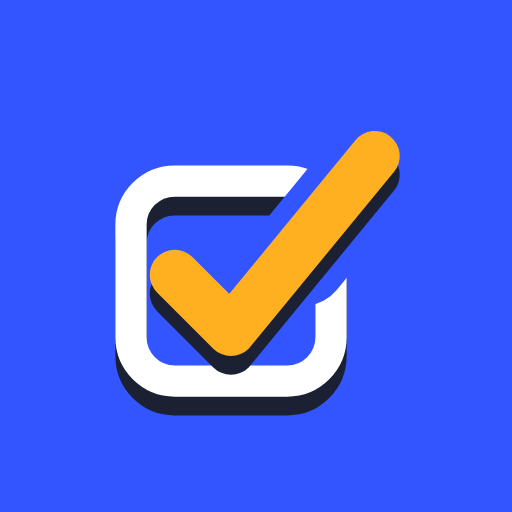
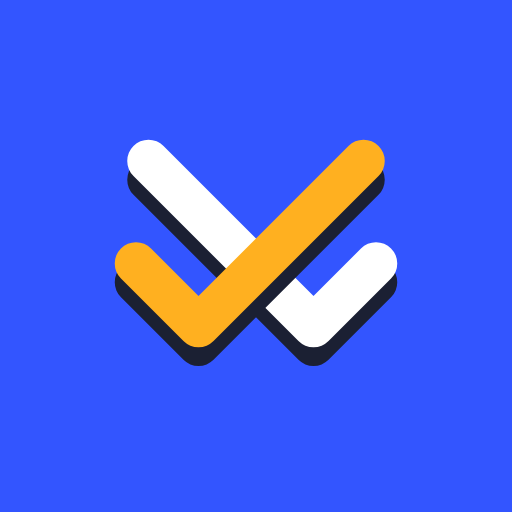
feat: 앱 마크를 교차한 체크 두 개로 — 투두와 대결을 한 그림에
전 마크는 체크 칸 하나와 체크 하나였다. 투두는 읽혔지만 대결이 어디에도 없었다.
앰버 체크와 흰 체크가 서로를 향해 그어져 한가운데에서 X로 만난다 — 칼 두 자루를 교차시킨
대결 기호를 체크로 바꾼 것이고, 두 색이 곧 두 사람이다(2026-11-12 오너).

- 기하는 완전 대칭이다. 흰 체크는 앰버 체크를 세로축(x = 12)으로 뒤집은 모양이고, 두 긴
  획이 직각이라 교차점이 정확히 하나(12, 13)다.
- **색 마크는 끊지 않는다.** 처음에는 앞 체크 둘레를 배경색으로 끊었는데 뒤 체크가 두 동강
  난 조각처럼 보이고 앰버만 온전한 체크로 읽혔다. 앞 획의 ink 두께가 뒤 획 위로 지나가며
  경계를 만들어 주므로(그림자가 드리운 모양) 그걸로 충분하다.
- **단색(테마 아이콘·알림)에서만 간격을 낸다.** 색이 하나라 그 경계가 없어, 간격이 없으면
  교차가 사라지고 그냥 X 한 덩어리가 된다. 지우는 띠는 끝이 둥글면 교차점 밖까지 번져
  뒤 체크의 짧은 획(앞 긴 획과 나란하다)을 갉으므로 자른 끝(butt)으로 짧게 낸다.
- 런처(5밀도 × 3종)·알림·스토어 512px를 다시 생성했다. 로그인 화면 마크도 같은
  `AppMark.paint`를 쓰므로 함께 바뀐다.

테스트: 안전 원(반지름 33dp) 안에 드는 것, 두 체크의 끝·꺾임 여섯 점이 모두 남는 것,
간격이 단색에만 있는 것을 단정한다. `flutter analyze` 깨끗, 758개 통과.

Changed region(s): [[0.2188, 0.25, 0.7812, 0.8125], [0.6562, 0.2812, 0.6875, 0.3125], [0.625, 0.3125, 0.6562, 0.3438]]

diff --git a/lib/core/theme/app_mark.dart b/lib/core/theme/app_mark.dart
@@ -4,92 +4,119 @@ import 'app_palette.dart';
 
 /// 앱 마크 — 런처·스토어·알림·테마 아이콘과 로그인 화면이 같은 그림을 쓴다(redesign design 7.1).
 ///
-/// 둥근 체크 칸(할 일)을 굵은 앰버 체크가 오른쪽 위로 뚫고 나가고("먼저 해치운다"), 아래로 ink 두께가
-/// 붙는다(버튼 두께와 같은 언어). 캐릭터·얼굴·원형 볼 같은 특정 게임 도형은 없다.
-/// 적응형 아이콘(108dp)에서 가운데 44dp 상자에 그리면 모든 픽셀이 안전 원(반지름 33dp) 안에 든다 — 테스트로 고정.
+/// **체크 두 개가 맞붙는다**(2026-11-12 오너 — "체크 표시 두 개가 배틀하고 있는 느낌"). 앰버 체크와
+/// 흰 체크가 서로를 향해 그어져 한가운데에서 X로 교차한다 — 칼 두 자루를 교차시킨 대결 기호를
+/// 체크로 바꾼 것이고, 두 색이 곧 두 사람이다. 앞(앰버)이 지나는 자리에서 뒤(흰)를 끊어 두 획이
+/// 한 덩어리로 뭉치지 않고 **겹쳐 지나가는** 것으로 읽힌다.
+///
+/// 전에는 체크 칸 하나와 체크 하나였다. 투두는 읽혔지만 대결이 어디에도 없었다 — 두 번째 체크가
+/// 그 자리를 메운다.
+///
+/// 캐릭터·얼굴·원형 볼 같은 특정 게임 도형은 없다(IP 가드, design 4.3). 적응형 아이콘(108dp)에서
+/// 가운데 44dp 상자에 그리면 모든 픽셀이 안전 원(반지름 33dp) 안에 든다 — 테스트로 고정.
 class AppMark {
   AppMark._();
 
   // ── 벡터 마크(redesign design 7.1) ──────────────────────────────────────────────────────────
   //
   // 24×24 단위(u) 격자 위의 그림. 로그인·런처·스토어·알림·테마 아이콘이 [paint] 하나를 함께 쓴다.
-  // - 칸: 둥근 사각 [boxRect], 모서리 [boxRadius], 선 굵기 [boxStroke] — surface(흰색).
-  // - 체크: 꺾은선 [checkPoints], 굵기 [checkStroke], 둥근 끝·꺾임 — amber.
-  // - 뚫린 자리: 체크가 칸 선을 지나는 곳(오른쪽 위)에서 칸 선을 체크 둘레 [cutGap]만큼 지운다 — 체크가
-  //   칸을 "뚫고" 오른쪽 위로 나간다.
-  // - 두께: 칸·체크를 아래로 [shadowOffset] 옮긴 같은 모양을 ink로 먼저 깐다(버튼 두께와 같은 언어).
-  //   뚫린 자리는 체크 몸통(체크 + 그 두께) 둘레로 내서 체크 두께가 간격을 메우지 않게 한다.
-  // - 단색(테마 아이콘·알림): 두께 없이 칸 + 체크만, 뚫린 간격은 남긴다(한 덩어리로 뭉개지지 않게).
-  // 얼굴·캐릭터·특정 게임 도형 없음(체크와 네모뿐).
+  // - 두 체크: 꺾은선 [frontPoints](앰버)와 그것을 세로축으로 뒤집은 [backPoints](흰색),
+  //   굵기 [checkStroke], 둥근 끝·꺾임. 두 긴 획이 [crossPoint]에서 직각으로 만난다.
+  // - 끊긴 자리: 앞 체크 몸통 둘레 [cutGap]만큼을 뒤 체크 층에서 지운다 — 앞이 위로 지나간다.
+  // - 두께: 두 체크를 아래로 [shadowOffset] 옮긴 같은 모양을 ink로 먼저 깐다(버튼 두께와 같은 언어).
+  //   끊긴 자리는 앞 체크 몸통(체크 + 그 두께) 둘레로 내서 두께가 간격을 메우지 않게 한다.
+  // - 단색(테마 아이콘·알림): 두께 없이 두 체크만, 끊긴 간격은 남긴다 — 한 색이라 간격이 없으면
+  //   교차가 사라지고 그냥 X 한 덩어리가 된다.
 
   /// 격자 한 변(u).
   static const grid = 24.0;
 
-  static const boxRect = Rect.fromLTRB(2, 6, 18, 22);
-  static const boxRadius = 3.5;
-  static const boxStroke = 2.5;
+  /// 앞 체크(앰버). 왼쪽 아래에서 오른쪽 위로 긋는다.
+  static const frontPoints = [Offset(2.4, 12.6), Offset(7.4, 17.6), Offset(20.6, 4.4)];
 
-  static const checkPoints = [Offset(5.5, 13.5), Offset(10, 18), Offset(21.5, 4)];
-  static const checkStroke = 4.0;
+  /// 뒤 체크(흰색). [frontPoints]를 세로축(x = 12)으로 뒤집은 모양이다.
+  static const backPoints = [Offset(21.6, 12.6), Offset(16.6, 17.6), Offset(3.4, 4.4)];
 
-  /// 체크 둘레에서 칸 선을 지우는 폭(체크 굵기 바깥으로).
-  static const cutGap = 1.5;
+  static const checkStroke = 3.4;
+
+  /// 앞 체크 둘레에서 뒤 체크를 지우는 폭(앞 체크 굵기 바깥으로).
+  static const cutGap = 1.0;
 
   /// 아래 두께(ink) 오프셋.
   static const shadowOffset = 1.5;
 
-  /// 뚫린 자리를 내는 구간 — 체크의 긴 획 가운데부터 끝까지. 긴 획 전체로 지우면 아래 꺾임(10, 18)의 둥근
-  /// 끝이 칸 아랫선까지 갉아 먹는다. 칸 선과 만나는 곳(오른쪽 위)만 지운다.
-  static final cutFrom = Offset.lerp(checkPoints[1], checkPoints[2], 0.5)!;
+  /// 두 긴 획이 만나는 점. 두 획이 서로 직각(기울기 +1과 -1)이라 교차는 한 곳뿐이다.
+  static const crossPoint = Offset(12, 13);
+
+  /// 끊긴 자리를 내는 구간 — [crossPoint] 양옆으로 앞 체크 반 굵기 + [cutGap]. 짧게 끊어야
+  /// 지우는 띠가 뒤 체크의 **짧은 획**(앞 긴 획과 나란하다)까지 갉아 먹지 않는다.
+  static final Offset _cutReach = () {
+    final arm = frontPoints[2] - frontPoints[1];
+    return arm / arm.distance * (checkStroke / 2 + cutGap);
+  }();
+
+  static Offset get cutFrom => crossPoint - _cutReach;
+  static Offset get cutTo => crossPoint + _cutReach;
 
   /// [box](격자 24u가 들어갈 정사각형)에 마크를 그린다. 배경은 그리지 않는다(호출자 몫).
   ///
-  /// [monochrome]이면 두께 없이 칸 + 체크를 [monoColor](기본 surface) 한 색으로 그린다.
+  /// [monochrome]이면 두께 없이 두 체크를 [monoColor](기본 surface) 한 색으로 그린다.
   static void paint(Canvas canvas, Rect box, {bool monochrome = false, Color? monoColor}) {
     final unit = box.shortestSide / grid;
     final mono = monoColor ?? AppPalette.surface;
-    // 체크 몸통(체크 + 그 아래 두께)이 차지하는 세로 오프셋들. 뚫린 자리는 몸통 전체 둘레로 낸다 —
-    // 체크 면만 둘레로 지우면 체크 두께가 간격을 메워 칸과 붙어 보인다.
-    final checkOffsets = monochrome ? const [0.0] : const [0.0, shadowOffset];
+    // **색 마크는 끊지 않는다.** 앞 체크의 ink 두께가 뒤 체크 위로 지나가며 경계를 만들어 주므로
+    // (앞 획의 그림자가 뒤 획에 드리운 것처럼) 파란 간격까지 내면 뒤 체크가 두 동강 난 조각으로
+    // 보인다. 단색에서는 색이 하나라 그 경계가 없어 간격이 없으면 그냥 X 한 덩어리가 된다.
 
     canvas.save();
     canvas.translate(box.left, box.top);
     canvas.scale(unit);
 
-    // 칸(+ 칸 두께)은 자기 층에 그리고 뚫린 자리를 그 층에서만 지운다(배경은 지워지지 않는다).
-    canvas.saveLayer(null, Paint());
-    final boxShape = RRect.fromRectAndRadius(boxRect, const Radius.circular(boxRadius));
-    final boxPaint = Paint()
-      ..style = PaintingStyle.stroke
-      ..strokeWidth = boxStroke;
-    if (!monochrome) {
-      canvas.drawRRect(boxShape.shift(const Offset(0, shadowOffset)), boxPaint..color = AppPalette.ink);
-    }
-    canvas.drawRRect(boxShape, boxPaint..color = monochrome ? mono : AppPalette.surface);
-    final cutPaint = Paint()
-      ..style = PaintingStyle.stroke
-      ..strokeWidth = checkStroke + cutGap * 2
-      ..strokeCap = StrokeCap.round
-      ..blendMode = BlendMode.clear;
-    for (final dy in checkOffsets) {
-      canvas.drawLine(cutFrom.translate(0, dy), checkPoints[2].translate(0, dy), cutPaint);
-    }
-    canvas.restore();
-
-    final checkPaint = Paint()
+    final strokePaint = Paint()
       ..style = PaintingStyle.stroke
       ..strokeWidth = checkStroke
       ..strokeCap = StrokeCap.round
       ..strokeJoin = StrokeJoin.round;
+
+    // 뒤 체크는 자기 층에 그리고 끊긴 자리를 그 층에서만 지운다(배경은 지워지지 않는다).
+    canvas.saveLayer(null, Paint());
     if (!monochrome) {
-      canvas.drawPath(_checkPath.shift(const Offset(0, shadowOffset)), checkPaint..color = AppPalette.ink);
+      canvas.drawPath(
+        _path(backPoints).shift(const Offset(0, shadowOffset)),
+        strokePaint..color = AppPalette.ink,
+      );
     }
-    canvas.drawPath(_checkPath, checkPaint..color = monochrome ? mono : AppPalette.amber);
+    canvas.drawPath(_path(backPoints), strokePaint..color = monochrome ? mono : AppPalette.surface);
+    // 끝을 둥글게 두면 지우는 띠가 교차점에서 더 멀리까지 번진다. 자른 끝(butt)이라 간격의
+    // 가장자리가 앞 체크와 나란한 직선이 된다.
+    if (monochrome) {
+      canvas.drawLine(
+        cutFrom,
+        cutTo,
+        Paint()
+          ..style = PaintingStyle.stroke
+          ..strokeWidth = checkStroke + cutGap * 2
+          ..strokeCap = StrokeCap.butt
+          ..blendMode = BlendMode.clear,
+      );
+    }
+    canvas.restore();
+
+    if (!monochrome) {
+      canvas.drawPath(
+        _path(frontPoints).shift(const Offset(0, shadowOffset)),
+        strokePaint..color = AppPalette.ink,
+      );
+    }
+    canvas.drawPath(_path(frontPoints), strokePaint..color = monochrome ? mono : AppPalette.amber);
     canvas.restore();
   }
 
-  static Path get _checkPath => Path()
-    ..moveTo(checkPoints[0].dx, checkPoints[0].dy)
-    ..lineTo(checkPoints[1].dx, checkPoints[1].dy)
-    ..lineTo(checkPoints[2].dx, checkPoints[2].dy);
+  static Path _path(List<Offset> points) {
+    final path = Path()..moveTo(points.first.dx, points.first.dy);
+    for (final point in points.skip(1)) {
+      path.lineTo(point.dx, point.dy);
+    }
+    return path;
+  }
 }

diff --git a/test/core/theme/app_mark_test.dart b/test/core/theme/app_mark_test.dart
@@ -80,7 +80,7 @@ void main() {
       expect(rgba >> 8 & 0xFFFFFF, AppPalette.surface.toARGB32() & 0xFFFFFF);
     });
 
-    testWidgets('색 마크에는 칸(surface)·체크(amber)·두께(ink)가 모두 있다', (tester) async {
+    testWidgets('색 마크에는 뒤 체크(surface)·앞 체크(amber)·두께(ink)가 모두 있다', (tester) async {
       final (:bytes, :side) = await renderAdaptive(tester);
       final colors = <int>{};
       for (var i = 0; i < side * side; i++) {
@@ -92,7 +92,7 @@ void main() {
       }
     });
 
-    testWidgets('체크가 칸 오른쪽 선을 뚫는 자리에 간격이 있고, 칸 선의 나머지는 이어져 있다', (tester) async {
+    testWidgets('두 체크가 한가운데에서 교차하고 끝과 꺾임은 모두 남는다', (tester) async {
       const pxPerDp = 4.0;
       for (final monochrome in [false, true]) {
         final (:bytes, :side) = await renderAdaptive(tester, monochrome: monochrome);
@@ -101,24 +101,34 @@ void main() {
           return alphaAt(bytes, side, p.dx.floor(), p.dy.floor()) > 0;
         }
 
-        // 긴 획(10,18)→(21.5,4)이 칸 오른쪽 선 x = 18과 만나는 높이.
-        final a = AppMark.checkPoints[1];
-        final b = AppMark.checkPoints[2];
-        final crossY = a.dy + (b.dy - a.dy) * (AppMark.boxRect.right - a.dx) / (b.dx - a.dx);
-        // 체크 굵기가 오른쪽 선에서 차지하는 세로 반폭.
-        final length = (b - a).distance;
-        final checkHalf = AppMark.checkStroke / 2 * length / (b.dx - a.dx);
-        final cutHalf = (AppMark.checkStroke / 2 + AppMark.cutGap) * length / (b.dx - a.dx);
-        // 체크 몸통(색 마크는 체크 + 아래 두께) 바깥, 지운 폭 안: 칸 선이 있어야 할 자리가 비어 있다(간격 > 0).
-        final bodyBottom = crossY + checkHalf + (monochrome ? 0 : AppMark.shadowOffset);
-        final cutBottom = crossY + cutHalf + (monochrome ? 0 : AppMark.shadowOffset);
-        expect(cutBottom - bodyBottom, greaterThan(0));
-        final gapY = (bodyBottom + cutBottom) / 2;
-        expect(paintedAt(Offset(AppMark.boxRect.right, gapY)), isFalse, reason: 'gap, mono=$monochrome');
-        // 지운 폭 밖의 오른쪽 선·왼쪽 선·아랫선은 남아 있다.
-        expect(paintedAt(Offset(AppMark.boxRect.right, cutBottom + 1.5)), isTrue);
-        expect(paintedAt(Offset(AppMark.boxRect.left, 14)), isTrue);
-        expect(paintedAt(Offset(10, AppMark.boxRect.bottom)), isTrue, reason: '아랫선은 꺾임에 갉아 먹히지 않는다');
+        // 앞 체크는 교차점에서 끊기지 않는다 — 위로 지나가는 쪽이다.
+        expect(paintedAt(AppMark.crossPoint), isTrue, reason: 'cross, mono=$monochrome');
+        // 두 체크의 네 끝과 두 꺾임이 모두 남아 있다 — 지우는 띠가 교차점 밖을 갉아 먹지 않는다.
+        for (final points in [AppMark.frontPoints, AppMark.backPoints]) {
+          for (final point in points) {
+            expect(paintedAt(point), isTrue, reason: '$point, mono=$monochrome');
+          }
+        }
+      }
+    });
+
+    // 단색(테마 아이콘·알림)은 색이 하나라 두 획이 만나는 자리를 색으로 구분할 수 없다.
+    // 간격을 내지 않으면 교차가 사라지고 그냥 X 한 덩어리가 된다.
+    testWidgets('단색에서만 교차 자리에 간격이 있다(색 마크는 ink 두께가 그 경계를 맡는다)',
+        (tester) async {
+      const pxPerDp = 4.0;
+      // 뒤 체크의 긴 획을 따라 교차점에서 멀어지는 방향(왼쪽 위). 아래쪽으로 재면 앞 체크의
+      // ink 두께가 걸려 "간격"과 "두께"를 구분할 수 없다.
+      final backArm = AppMark.backPoints[2] - AppMark.backPoints[1];
+      final away = backArm / backArm.distance;
+      // 앞 체크 몸통 바깥, 지운 폭 안.
+      final probe = AppMark.crossPoint + away * (AppMark.checkStroke / 2 + AppMark.cutGap / 2);
+
+      for (final monochrome in [false, true]) {
+        final (:bytes, :side) = await renderAdaptive(tester, monochrome: monochrome);
+        final p = gridToPx(probe, pxPerDp);
+        final painted = alphaAt(bytes, side, p.dx.floor(), p.dy.floor()) > 0;
+        expect(painted, !monochrome, reason: 'mono=$monochrome');
       }
     });
   });
